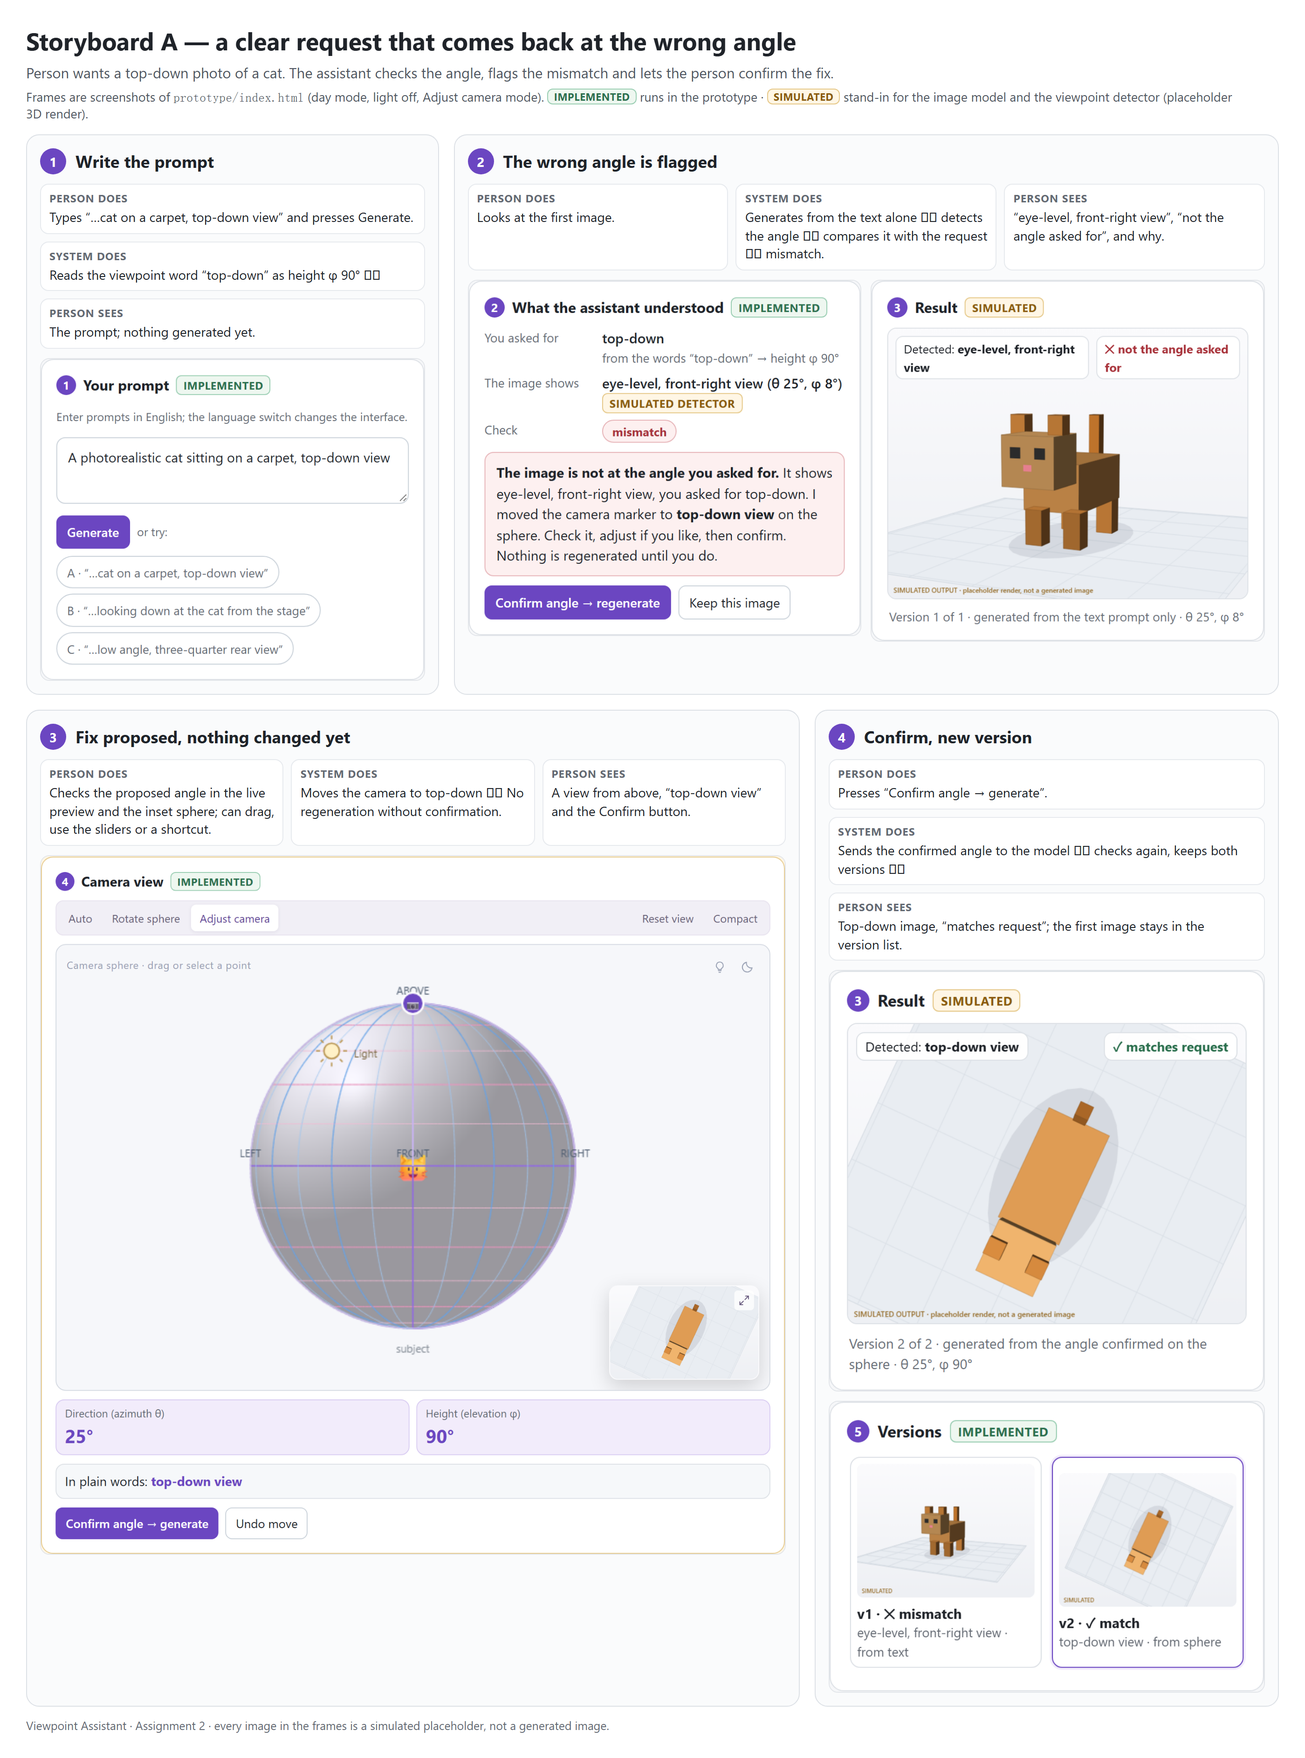
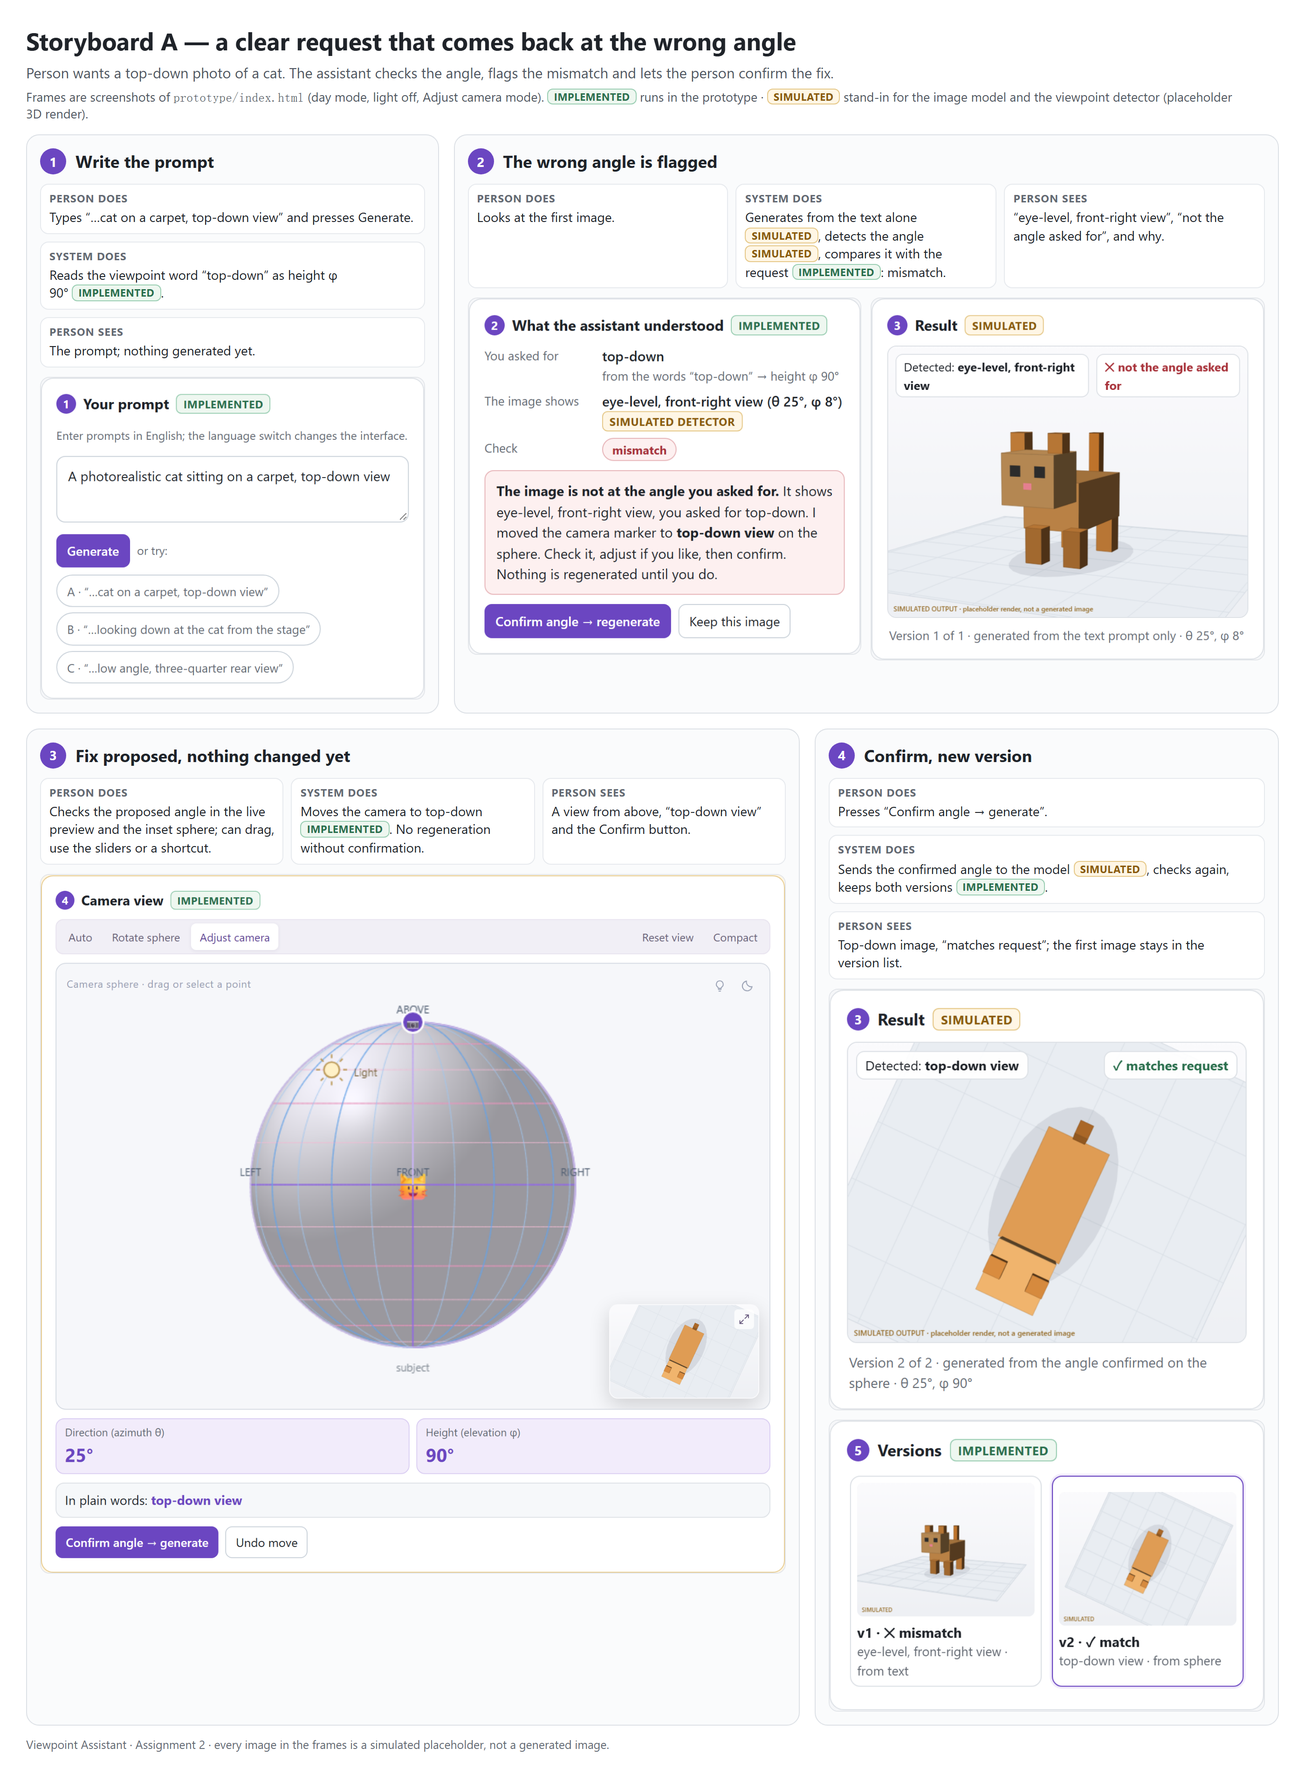
Storyboards: fix the status tags broken by the previous layout commit

diff --git a/docs/a2/storyboard_C_precise.html b/docs/a2/storyboard_C_precise.html
@@ -22,4 +22,4 @@ h1{font-size:26px} .sub{color:#4e5561;font-size:15.5px;margin:6px 0 6px}
 .imgs.one img,.imgs.half img{width:100%} .imgs.two img{width:calc(50% - 5px)}
 .imgs.col{flex-direction:column} .imgs.col img{width:100%}
 .foot{font-size:12.5px;color:#646a73;margin-top:-4px}
-</style></head><body><h1>Storyboard C — a precise angle that shortcuts cannot reach</h1><p class="sub">An everyday creator works backwards from the angle they have in mind — a low three-quarter rear view — adjusts it exactly, then compares versions.</p><p class="legend">Frames are screenshots of <code>prototype/index.html</code> (day mode, light off, Adjust camera mode). <span class="tag impl">implemented</span> runs in the prototype · <span class="tag sim">simulated</span> stand-in for the image model and the viewpoint detector (placeholder 3D render).</p><div class="grid r1"><div class="frame"><div class="n"><i>1</i>Write the prompt</div><div class="rows stack"><div class="row"><b>Person does</b>Types “…cat figurine, low angle, three-quarter rear view”.</div><div class="row"><b>System does</b>Combines two viewpoint words: height φ −35°, direction θ 135° <span class="nw"></span></div><div class="row"><b>Person sees</b>The prompt; nothing generated yet.</div></div><div class="imgs half"><img src="screens/C1_prompt.png" alt="Write the prompt"></div></div><div class="frame"><div class="n"><i>2</i>Mismatch, proposal made</div><div class="rows"><div class="row"><b>Person does</b>Looks at the first image and the proposal.</div><div class="row"><b>System does</b>The text-only image comes back eye-level <span class="nw"></span> the comparison flags a mismatch <span class="tag impl">implemented</span> and moves the camera to the requested angle.</div><div class="row"><b>Person sees</b>“not the angle asked for”; the camera now at “low angle, back-right view”.</div></div><div class="imgs two"><img src="screens/C2_understood.png" alt="Mismatch, proposal made"><img src="screens/C2_result.png" alt="Mismatch, proposal made"></div></div></div><div class="grid r2"><div class="frame"><div class="n"><i>3</i>Fine-tune with the sliders</div><div class="rows"><div class="row"><b>Person does</b>Drags the sliders to θ 150°, φ −20°.</div><div class="row"><b>System does</b>Updates the preview, the inset and the plain-language readout live <span class="nw"></span> Each completed slider move is one Undo step.</div><div class="row"><b>Person sees</b>Exact numbers, “slightly low angle, back-right view” and the preview.</div></div><div class="imgs one"><img src="screens/C3_camera.png" alt="Fine-tune with the sliders"></div></div><div class="frame"><div class="n"><i>4</i>Confirm and compare versions</div><div class="rows stack"><div class="row"><b>Person does</b>Presses Confirm; can click any version to go back.</div><div class="row"><b>System does</b>Generates a new version at that angle <span class="nw"></span> keeps all versions <span class="nw"></span></div><div class="row"><b>Person sees</b>The new image with “matches request”; both versions side by side.</div></div><div class="imgs col"><img src="screens/C4_result.png" alt="Confirm and compare versions"><img src="screens/C4_versions.png" alt="Confirm and compare versions"></div></div></div><p class="foot">Viewpoint Assistant · Assignment 2 · every image in the frames is a simulated placeholder, not a generated image.</p></body></html>
+</style></head><body><h1>Storyboard C — a precise angle that shortcuts cannot reach</h1><p class="sub">An everyday creator works backwards from the angle they have in mind — a low three-quarter rear view — adjusts it exactly, then compares versions.</p><p class="legend">Frames are screenshots of <code>prototype/index.html</code> (day mode, light off, Adjust camera mode). <span class="tag impl">implemented</span> runs in the prototype · <span class="tag sim">simulated</span> stand-in for the image model and the viewpoint detector (placeholder 3D render).</p><div class="grid r1"><div class="frame"><div class="n"><i>1</i>Write the prompt</div><div class="rows stack"><div class="row"><b>Person does</b>Types “…cat figurine, low angle, three-quarter rear view”.</div><div class="row"><b>System does</b>Combines two viewpoint words: height φ −35°, direction θ 135° <span class="nw"><span class="tag impl">implemented</span>.</span></div><div class="row"><b>Person sees</b>The prompt; nothing generated yet.</div></div><div class="imgs half"><img src="screens/C1_prompt.png" alt="Write the prompt"></div></div><div class="frame"><div class="n"><i>2</i>Mismatch, proposal made</div><div class="rows"><div class="row"><b>Person does</b>Looks at the first image and the proposal.</div><div class="row"><b>System does</b>The text-only image comes back eye-level <span class="nw"><span class="tag sim">simulated</span>;</span> the comparison flags a mismatch <span class="tag impl">implemented</span> and moves the camera to the requested angle.</div><div class="row"><b>Person sees</b>“not the angle asked for”; the camera now at “low angle, back-right view”.</div></div><div class="imgs two"><img src="screens/C2_understood.png" alt="Mismatch, proposal made"><img src="screens/C2_result.png" alt="Mismatch, proposal made"></div></div></div><div class="grid r2"><div class="frame"><div class="n"><i>3</i>Fine-tune with the sliders</div><div class="rows"><div class="row"><b>Person does</b>Drags the sliders to θ 150°, φ −20°.</div><div class="row"><b>System does</b>Updates the preview, the inset and the plain-language readout live <span class="nw"><span class="tag impl">implemented</span>.</span> Each completed slider move is one Undo step.</div><div class="row"><b>Person sees</b>Exact numbers, “slightly low angle, back-right view” and the preview.</div></div><div class="imgs one"><img src="screens/C3_camera.png" alt="Fine-tune with the sliders"></div></div><div class="frame"><div class="n"><i>4</i>Confirm and compare versions</div><div class="rows stack"><div class="row"><b>Person does</b>Presses Confirm; can click any version to go back.</div><div class="row"><b>System does</b>Generates a new version at that angle <span class="nw"><span class="tag sim">simulated</span>;</span> keeps all versions <span class="nw"><span class="tag impl">implemented</span>.</span></div><div class="row"><b>Person sees</b>The new image with “matches request”; both versions side by side.</div></div><div class="imgs col"><img src="screens/C4_result.png" alt="Confirm and compare versions"><img src="screens/C4_versions.png" alt="Confirm and compare versions"></div></div></div><p class="foot">Viewpoint Assistant · Assignment 2 · every image in the frames is a simulated placeholder, not a generated image.</p></body></html>

diff --git a/docs/a2/storyboard_A_corrected.html b/docs/a2/storyboard_A_corrected.html
@@ -22,4 +22,4 @@ h1{font-size:26px} .sub{color:#4e5561;font-size:15.5px;margin:6px 0 6px}
 .imgs.one img,.imgs.half img{width:100%} .imgs.two img{width:calc(50% - 5px)}
 .imgs.col{flex-direction:column} .imgs.col img{width:100%}
 .foot{font-size:12.5px;color:#646a73;margin-top:-4px}
-</style></head><body><h1>Storyboard A — a clear request that comes back at the wrong angle</h1><p class="sub">Person wants a top-down photo of a cat. The assistant checks the angle, flags the mismatch and lets the person confirm the fix.</p><p class="legend">Frames are screenshots of <code>prototype/index.html</code> (day mode, light off, Adjust camera mode). <span class="tag impl">implemented</span> runs in the prototype · <span class="tag sim">simulated</span> stand-in for the image model and the viewpoint detector (placeholder 3D render).</p><div class="grid r1"><div class="frame"><div class="n"><i>1</i>Write the prompt</div><div class="rows stack"><div class="row"><b>Person does</b>Types “…cat on a carpet, top-down view” and presses Generate.</div><div class="row"><b>System does</b>Reads the viewpoint word “top-down” as height φ 90° <span class="nw"></span></div><div class="row"><b>Person sees</b>The prompt; nothing generated yet.</div></div><div class="imgs half"><img src="screens/A1_prompt.png" alt="Write the prompt"></div></div><div class="frame"><div class="n"><i>2</i>The wrong angle is flagged</div><div class="rows"><div class="row"><b>Person does</b>Looks at the first image.</div><div class="row"><b>System does</b>Generates from the text alone <span class="nw"></span> detects the angle <span class="nw"></span> compares it with the request <span class="nw"></span> mismatch.</div><div class="row"><b>Person sees</b>“eye-level, front-right view”, “not the angle asked for”, and why.</div></div><div class="imgs two"><img src="screens/A2_understood.png" alt="The wrong angle is flagged"><img src="screens/A2_result.png" alt="The wrong angle is flagged"></div></div></div><div class="grid r2"><div class="frame"><div class="n"><i>3</i>Fix proposed, nothing changed yet</div><div class="rows"><div class="row"><b>Person does</b>Checks the proposed angle in the live preview and the inset sphere; can drag, use the sliders or a shortcut.</div><div class="row"><b>System does</b>Moves the camera to top-down <span class="nw"></span> No regeneration without confirmation.</div><div class="row"><b>Person sees</b>A view from above, “top-down view” and the Confirm button.</div></div><div class="imgs one"><img src="screens/A3_camera.png" alt="Fix proposed, nothing changed yet"></div></div><div class="frame"><div class="n"><i>4</i>Confirm, new version</div><div class="rows stack"><div class="row"><b>Person does</b>Presses “Confirm angle → generate”.</div><div class="row"><b>System does</b>Sends the confirmed angle to the model <span class="nw"></span> checks again, keeps both versions <span class="nw"></span></div><div class="row"><b>Person sees</b>Top-down image, “matches request”; the first image stays in the version list.</div></div><div class="imgs col"><img src="screens/A4_result.png" alt="Confirm, new version"><img src="screens/A4_versions.png" alt="Confirm, new version"></div></div></div><p class="foot">Viewpoint Assistant · Assignment 2 · every image in the frames is a simulated placeholder, not a generated image.</p></body></html>
+</style></head><body><h1>Storyboard A — a clear request that comes back at the wrong angle</h1><p class="sub">Person wants a top-down photo of a cat. The assistant checks the angle, flags the mismatch and lets the person confirm the fix.</p><p class="legend">Frames are screenshots of <code>prototype/index.html</code> (day mode, light off, Adjust camera mode). <span class="tag impl">implemented</span> runs in the prototype · <span class="tag sim">simulated</span> stand-in for the image model and the viewpoint detector (placeholder 3D render).</p><div class="grid r1"><div class="frame"><div class="n"><i>1</i>Write the prompt</div><div class="rows stack"><div class="row"><b>Person does</b>Types “…cat on a carpet, top-down view” and presses Generate.</div><div class="row"><b>System does</b>Reads the viewpoint word “top-down” as height φ 90° <span class="nw"><span class="tag impl">implemented</span>.</span></div><div class="row"><b>Person sees</b>The prompt; nothing generated yet.</div></div><div class="imgs half"><img src="screens/A1_prompt.png" alt="Write the prompt"></div></div><div class="frame"><div class="n"><i>2</i>The wrong angle is flagged</div><div class="rows"><div class="row"><b>Person does</b>Looks at the first image.</div><div class="row"><b>System does</b>Generates from the text alone <span class="nw"><span class="tag sim">simulated</span>,</span> detects the angle <span class="nw"><span class="tag sim">simulated</span>,</span> compares it with the request <span class="nw"><span class="tag impl">implemented</span>:</span> mismatch.</div><div class="row"><b>Person sees</b>“eye-level, front-right view”, “not the angle asked for”, and why.</div></div><div class="imgs two"><img src="screens/A2_understood.png" alt="The wrong angle is flagged"><img src="screens/A2_result.png" alt="The wrong angle is flagged"></div></div></div><div class="grid r2"><div class="frame"><div class="n"><i>3</i>Fix proposed, nothing changed yet</div><div class="rows"><div class="row"><b>Person does</b>Checks the proposed angle in the live preview and the inset sphere; can drag, use the sliders or a shortcut.</div><div class="row"><b>System does</b>Moves the camera to top-down <span class="nw"><span class="tag impl">implemented</span>.</span> No regeneration without confirmation.</div><div class="row"><b>Person sees</b>A view from above, “top-down view” and the Confirm button.</div></div><div class="imgs one"><img src="screens/A3_camera.png" alt="Fix proposed, nothing changed yet"></div></div><div class="frame"><div class="n"><i>4</i>Confirm, new version</div><div class="rows stack"><div class="row"><b>Person does</b>Presses “Confirm angle → generate”.</div><div class="row"><b>System does</b>Sends the confirmed angle to the model <span class="nw"><span class="tag sim">simulated</span>,</span> checks again, keeps both versions <span class="nw"><span class="tag impl">implemented</span>.</span></div><div class="row"><b>Person sees</b>Top-down image, “matches request”; the first image stays in the version list.</div></div><div class="imgs col"><img src="screens/A4_result.png" alt="Confirm, new version"><img src="screens/A4_versions.png" alt="Confirm, new version"></div></div></div><p class="foot">Viewpoint Assistant · Assignment 2 · every image in the frames is a simulated placeholder, not a generated image.</p></body></html>

diff --git a/docs/a2/storyboard_B_asked.html b/docs/a2/storyboard_B_asked.html
@@ -22,4 +22,4 @@ h1{font-size:26px} .sub{color:#4e5561;font-size:15.5px;margin:6px 0 6px}
 .imgs.one img,.imgs.half img{width:100%} .imgs.two img{width:calc(50% - 5px)}
 .imgs.col{flex-direction:column} .imgs.col img{width:100%}
 .foot{font-size:12.5px;color:#646a73;margin-top:-4px}
-</style></head><body><h1>Storyboard B — a metaphor: ask instead of guessing</h1><p class="sub">Person describes the angle as a scene (“looking down from the stage”). The assistant does not turn it into a literal angle.</p><p class="legend">Frames are screenshots of <code>prototype/index.html</code> (day mode, light off, Adjust camera mode). <span class="tag impl">implemented</span> runs in the prototype · <span class="tag sim">simulated</span> stand-in for the image model and the viewpoint detector (placeholder 3D render).</p><div class="grid r1"><div class="frame"><div class="n"><i>1</i>Write the prompt</div><div class="rows stack"><div class="row"><b>Person does</b>Types “Make it look like you’re looking down at the cat from the stage”.</div><div class="row"><b>System does</b>Looks for viewpoint words <span class="nw"></span></div><div class="row"><b>Person sees</b>The prompt; nothing generated yet.</div></div><div class="imgs half"><img src="screens/B1_prompt.png" alt="Write the prompt"></div></div><div class="frame"><div class="n"><i>2</i>The assistant asks</div><div class="rows"><div class="row"><b>Person does</b>Reads the message.</div><div class="row"><b>System does</b>Finds “looking down” but no exact angle: unclear <span class="nw"></span> Generates nothing and offers three numbered suggestions.</div><div class="row"><b>Person sees</b>“I have not generated anything”, no image yet, and where to choose.</div></div><div class="imgs two"><img src="screens/B2_understood.png" alt="The assistant asks"><img src="screens/B2_result.png" alt="The assistant asks"></div></div></div><div class="grid r2"><div class="frame"><div class="n"><i>3</i>Point at the angle</div><div class="rows"><div class="row"><b>Person does</b>Picks Suggestion 1 with its numbered button below the preview.</div><div class="row"><b>System does</b>Moves the camera there; the preview, the inset and the plain-language readout follow <span class="nw"></span></div><div class="row"><b>Person sees</b>θ 0°, φ 55°, “high angle, front view” and Confirm.</div></div><div class="imgs one"><img src="screens/B3_camera.png" alt="Point at the angle"></div></div><div class="frame"><div class="n"><i>4</i>Confirm, image generated</div><div class="rows stack"><div class="row"><b>Person does</b>Presses “Confirm angle → generate”.</div><div class="row"><b>System does</b>Sends the confirmed angle to the model <span class="nw"></span> keeps the version <span class="nw"></span></div><div class="row"><b>Person sees</b>An image at that angle, “matches request”, listed as version 1.</div></div><div class="imgs col"><img src="screens/B4_result.png" alt="Confirm, image generated"><img src="screens/B4_versions.png" alt="Confirm, image generated"></div></div></div><p class="foot">Viewpoint Assistant · Assignment 2 · every image in the frames is a simulated placeholder, not a generated image.</p></body></html>
+</style></head><body><h1>Storyboard B — a metaphor: ask instead of guessing</h1><p class="sub">Person describes the angle as a scene (“looking down from the stage”). The assistant does not turn it into a literal angle.</p><p class="legend">Frames are screenshots of <code>prototype/index.html</code> (day mode, light off, Adjust camera mode). <span class="tag impl">implemented</span> runs in the prototype · <span class="tag sim">simulated</span> stand-in for the image model and the viewpoint detector (placeholder 3D render).</p><div class="grid r1"><div class="frame"><div class="n"><i>1</i>Write the prompt</div><div class="rows stack"><div class="row"><b>Person does</b>Types “Make it look like you’re looking down at the cat from the stage”.</div><div class="row"><b>System does</b>Looks for viewpoint words <span class="nw"><span class="tag impl">implemented</span>.</span></div><div class="row"><b>Person sees</b>The prompt; nothing generated yet.</div></div><div class="imgs half"><img src="screens/B1_prompt.png" alt="Write the prompt"></div></div><div class="frame"><div class="n"><i>2</i>The assistant asks</div><div class="rows"><div class="row"><b>Person does</b>Reads the message.</div><div class="row"><b>System does</b>Finds “looking down” but no exact angle: unclear <span class="nw"><span class="tag impl">implemented</span>.</span> Generates nothing and offers three numbered suggestions.</div><div class="row"><b>Person sees</b>“I have not generated anything”, no image yet, and where to choose.</div></div><div class="imgs two"><img src="screens/B2_understood.png" alt="The assistant asks"><img src="screens/B2_result.png" alt="The assistant asks"></div></div></div><div class="grid r2"><div class="frame"><div class="n"><i>3</i>Point at the angle</div><div class="rows"><div class="row"><b>Person does</b>Picks Suggestion 1 with its numbered button below the preview.</div><div class="row"><b>System does</b>Moves the camera there; the preview, the inset and the plain-language readout follow <span class="nw"><span class="tag impl">implemented</span>.</span></div><div class="row"><b>Person sees</b>θ 0°, φ 55°, “high angle, front view” and Confirm.</div></div><div class="imgs one"><img src="screens/B3_camera.png" alt="Point at the angle"></div></div><div class="frame"><div class="n"><i>4</i>Confirm, image generated</div><div class="rows stack"><div class="row"><b>Person does</b>Presses “Confirm angle → generate”.</div><div class="row"><b>System does</b>Sends the confirmed angle to the model <span class="nw"><span class="tag sim">simulated</span>;</span> keeps the version <span class="nw"><span class="tag impl">implemented</span>.</span></div><div class="row"><b>Person sees</b>An image at that angle, “matches request”, listed as version 1.</div></div><div class="imgs col"><img src="screens/B4_result.png" alt="Confirm, image generated"><img src="screens/B4_versions.png" alt="Confirm, image generated"></div></div></div><p class="foot">Viewpoint Assistant · Assignment 2 · every image in the frames is a simulated placeholder, not a generated image.</p></body></html>
